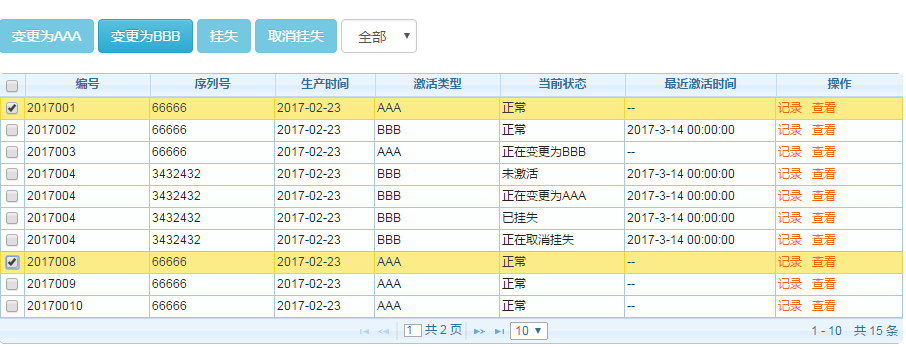
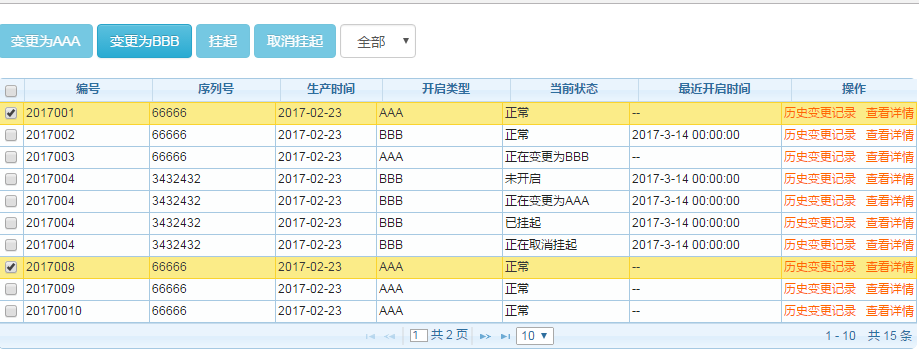
jqgrid change

Changed region(s): [[0.0, 0.2017, 1.0, 1.0], [0.0, 0.0576, 0.4636, 0.1729]]

diff --git a/js/index.js b/js/index.js
@@ -14,10 +14,10 @@ function watchBtn(arrList){
 			if(arrList[i].type != 0 || arrList[i].status != 0){  //只有type==0 && status==0(AAA 正常)才能变更为BBB
 				toActivationBtn = true;
 			};
-			if(arrList[i].type != 1 || (arrList[i].status != 0 && arrList[i].status != 1)){  //只有type==1 && (status==0 || status==1)(BBB 正常 未激活)才能挂失
+			if(arrList[i].type != 1 || (arrList[i].status != 0 && arrList[i].status != 1)){  //只有type==1 && (status==0 || status==1)(BBB 正常 未开启)才能挂起
 				lossBtn = true;
 			};
-			if(arrList[i].status != 4){  //只有status==4(已挂失)才能取消挂失
+			if(arrList[i].status != 4){  //只有status==4(已挂起)才能取消挂起
 				cancelLossBtn = true;
 			};
 		}
@@ -106,13 +106,13 @@ $(function(){
 				width: 80
 			},
 			{
-				label: "激活类型",
+				label: "开启类型",
 				name: "type",
 				width: 100,
 				hidden: true
 			},
 			{
-				label: "激活类型",
+				label: "开启类型",
 				name: "typeName",
 				width: 100,
 				formatter: function(cellValue, options, rowObject){
@@ -142,7 +142,7 @@ $(function(){
 							return "正常";
 							break;
 						case 1:
-							return "未激活";
+							return "未开启";
 							break;
 						case 2:
 							return "正在变更为BBB";
@@ -151,16 +151,16 @@ $(function(){
 							return "正在变更为AAA";
 							break;
 						case 4:
-							return "已挂失";
+							return "已挂起";
 							break;
 						case 5:
-							return "正在取消挂失";
+							return "正在取消挂起";
 							break;
 					}
 				}
 			},
 			{
-				label: "最近激活时间",
+				label: "最近开启时间",
 				name: "latestTime",
 				width: 120
 			},
@@ -168,7 +168,7 @@ $(function(){
 				label: "操作",
 				name: "operate",
 				width: 100,
-				formatter: function (value, grid, rows, state) { return "<a href=\"#\" style=\"color:#f60\" data-toggle=\"modal\" data-target=\"#history-modal\"  onclick=\"historyRecords(" + rows.id + ")\">记录</a><a href=\"#\" style=\"color:#f60;margin-left:10px;\" data-toggle=\"modal\" data-target=\"#detail-modal\" onclick=\"detail(" + rows.id + ")\">查看</a>" }
+				formatter: function (value, grid, rows, state) { return "<a href=\"#\" style=\"color:#f60\" data-toggle=\"modal\" data-target=\"#history-modal\"  onclick=\"historyRecords(" + rows.id + ")\">历史变更记录</a><a href=\"#\" style=\"color:#f60;margin-left:10px;\" data-toggle=\"modal\" data-target=\"#detail-modal\" onclick=\"detail(" + rows.id + ")\">查看详情</a>" }
 			}
 		],
 		viewrecords: true,

diff --git a/index.html b/index.html
@@ -30,8 +30,8 @@
 			<form class="form-inline">
 				<input class="btn btn-info" id="toForever" type="button" value="变更为AAA" />
 				<input class="btn btn-info" id="toActivation" type="button" value="变更为BBB" />
-				<input class="btn btn-info" id="loss" type="button" value="挂失" />
-				<input class="btn btn-info" id="cancelLoss" type="button" value="取消挂失" />
+				<input class="btn btn-info" id="loss" type="button" value="挂起" />
+				<input class="btn btn-info" id="cancelLoss" type="button" value="取消挂起" />
 				<select class="form-control" id="selectType">
 					<option data-type="">全部</option>
 					<option data-type="0">AAA</option>
@@ -54,9 +54,9 @@
 						<p>编号：<span id="keyNumber"></span></p>
 						<p>序列号：<span id="chipNumber"></span></p>
 						<p>生产时间：<span id="productTime"></span></p>
-						<p>激活类型：<span id="typeName"></span></p>
+						<p>开启类型：<span id="typeName"></span></p>
 						<p>当前状态：<span id="statusName"></span></p>
-						<p>最近激活时间：<span id="latestTime"></span></p>
+						<p>最近开启时间：<span id="latestTime"></span></p>
 					</div>
 					<div class="modal-footer">
 						<button type="button" class="btn btn-primary" data-dismiss="modal" aria-label="Close">确定</button>
